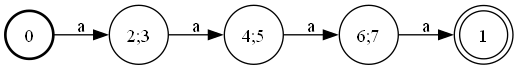
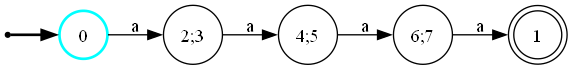
change the png

Changed region(s): [[0.0, 0.0571, 1.0, 0.9429], [0.2162, 0.6857, 0.2471, 0.8857]]

diff --git a/app.py b/app.py
@@ -23,6 +23,7 @@ saved_automata = {}
 def generate_image_endpoint():
     data = request.json
     name = data.get('name')
+    regex_string = name
     hash_value = hash_regex_string(name)
     cached_image_path = os.path.join(CACHE_DIR, f'{hash_value}')
     if not os.path.exists(cached_image_path + '.png'):
@@ -42,7 +43,7 @@ def generate_image_endpoint():
             saved_automata[name] = automata
         generate_image_from_automata(automata, cached_image_path)
     else:
-        logger.info(f'Using cached image for regex: {regex_string}')
+        logger.info(f'Using cached image for regex: {name}')
     cached_image_path += '.png'
     response = send_file(cached_image_path, mimetype='image/png')
     response.headers['Cache-Control'] = 'no-store'

diff --git a/core.py b/core.py
@@ -34,6 +34,15 @@ def generate_image_from_automata(automata, output_path):
         else:
             graph.node(str(state.value), shape="circle")
 
+    # Add an invisible starting point with an arrow to the initial state
+    if isinstance(automata, DeterministicFiniteAutomaton):
+        initial_state = automata.start_state
+    else:
+        initial_state = next(iter(automata.start_states))
+
+    graph.node('start', shape="point", style="invisible")
+    graph.edge('start', str(initial_state.value), style="bold")
+
     # Add transitions
     transitions = automata.to_dict()
     for from_state, symbols in transitions.items():
